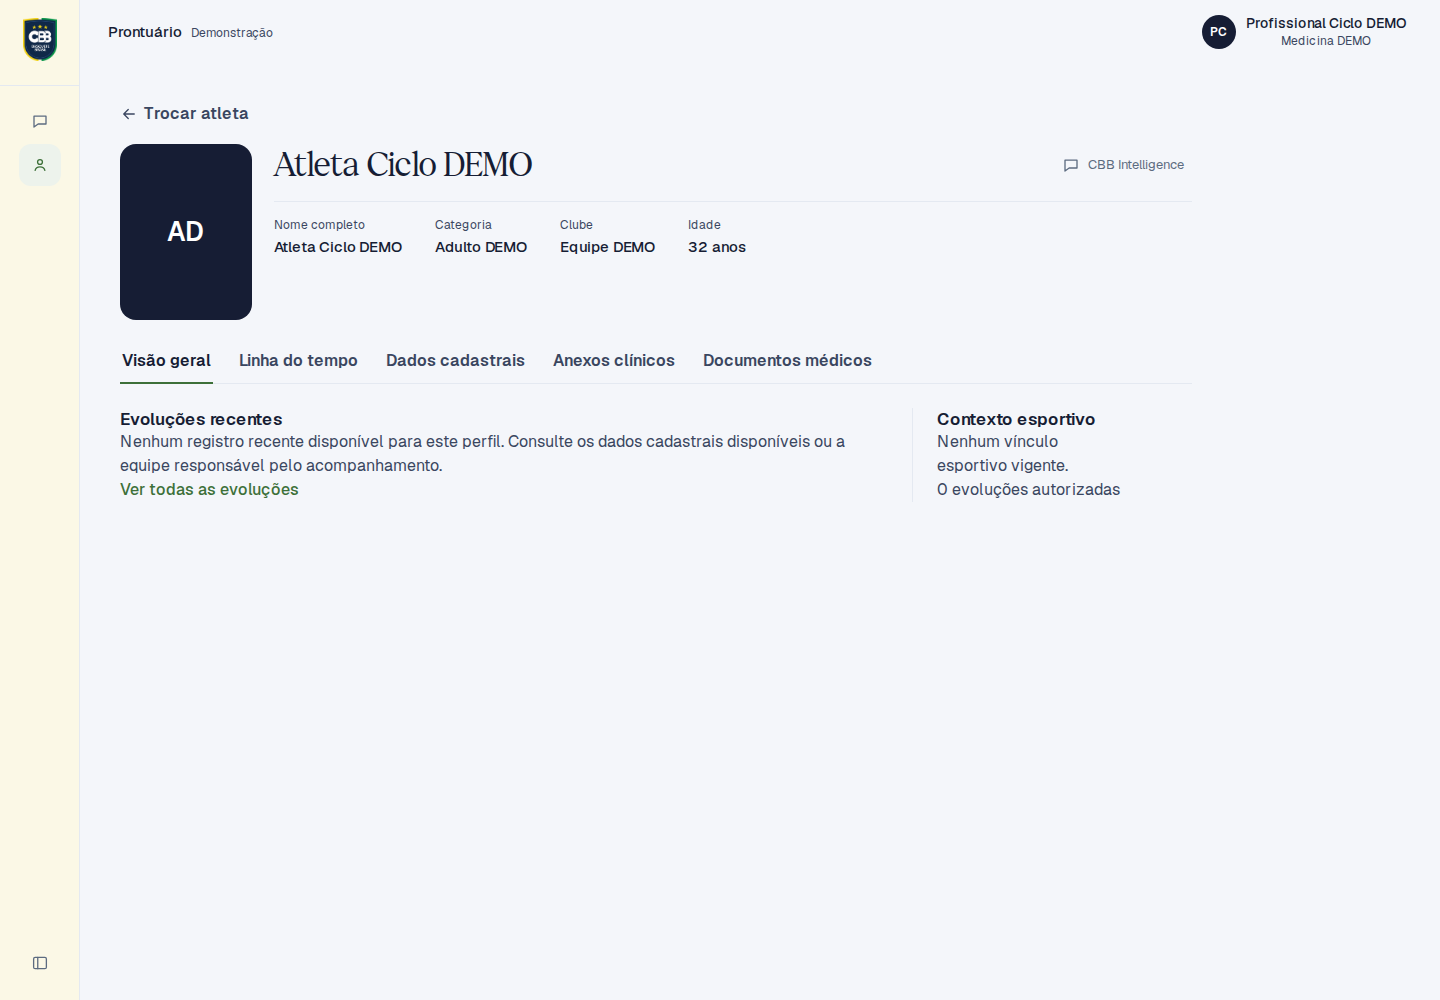
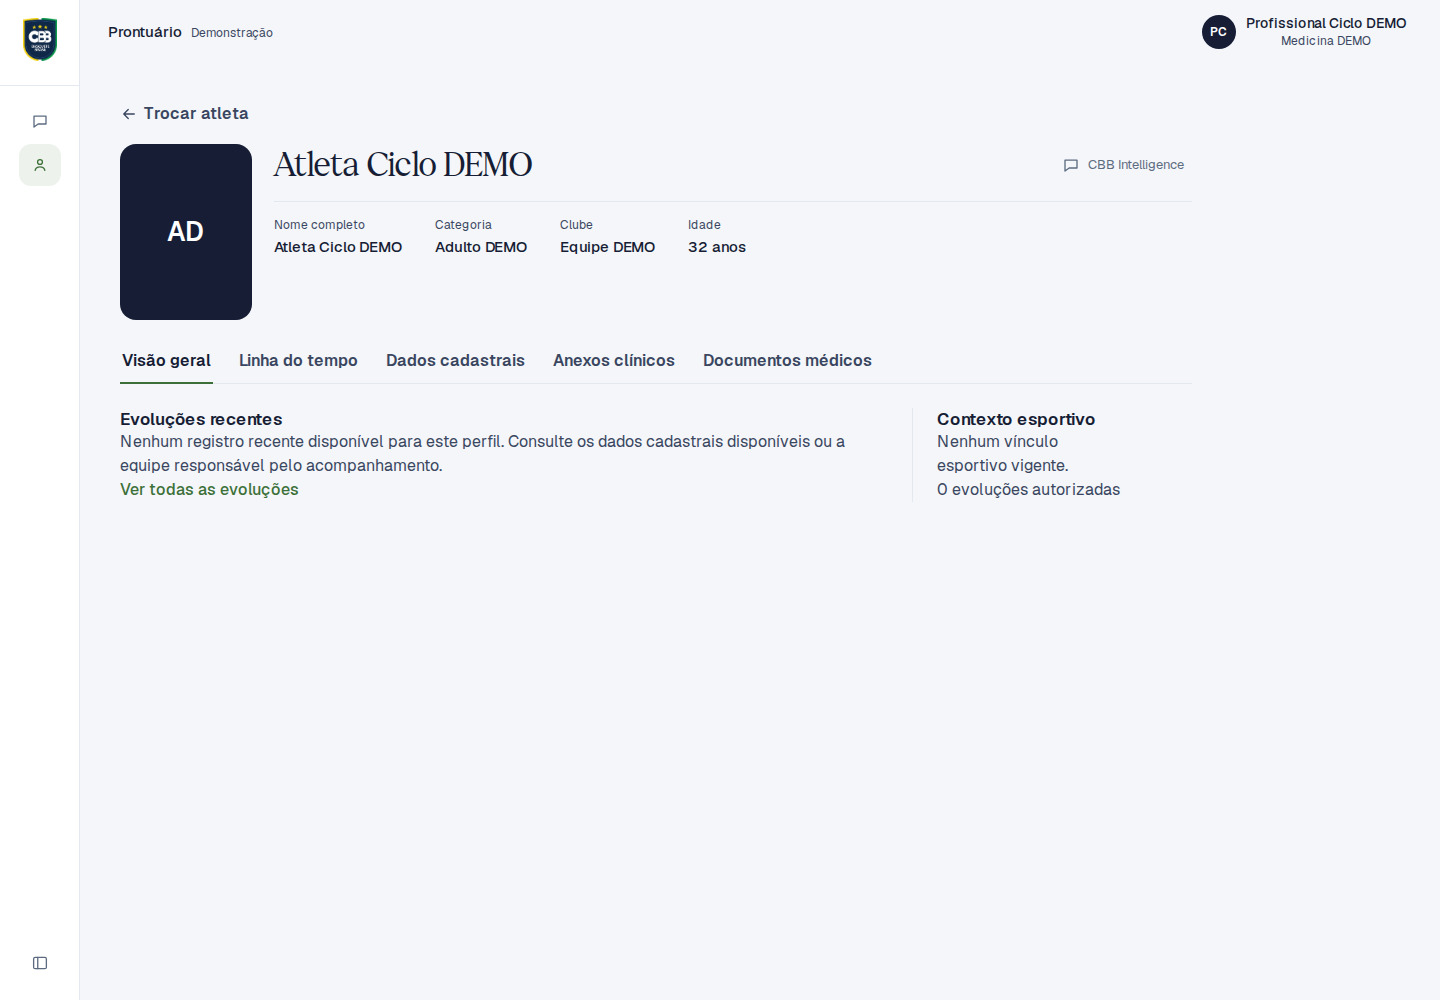
Revert "style: add subtle institutional yellow to navigation sidebar"
This reverts commit a21554922269d9b6a796809c7cc5ad3bf16a9146.

Changed region(s): [[0.0, 0.0, 0.0625, 1.0]]

diff --git a/src/app/globals.css b/src/app/globals.css
@@ -5,7 +5,6 @@
   --cbb-navy: #161d34;
   --cbb-green: #3d7039;
   --cbb-yellow: #e0c42d;
-  --sidebar-surface: #fbf8e6;
   --navy-hover: #1a375f;
   --navy-active: #224270;
   --navy-line: rgb(255 255 255 / .12);
@@ -134,7 +133,7 @@ textarea::placeholder, input::placeholder { color: var(--muted); opacity: 1; }
 .workspace-shell h1 { font-family: var(--font-geist), sans-serif; font-weight: 600; font-size: 1.75rem; letter-spacing: -.02em; line-height: 1.15; color: var(--cbb-navy); }
 .workspace-shell h1.athlete-name { font-family: var(--font-geist-serif-regular), "Times New Roman", serif; font-weight: 400; font-synthesis: none; font-size: 2rem; letter-spacing: -.03em; line-height: 1.08; white-space: nowrap; text-wrap: nowrap; }
 .workspace-shell ::selection { background: var(--brand-soft); color: var(--cbb-navy); }
-.workspace-sidebar { position: sticky; top: 0; z-index: 2; height: 100svh; display: flex; flex-direction: column; align-items: center; gap: .35rem; width: 80px; padding: 1.15rem 0 1rem; background: var(--sidebar-surface); border-right: 1px solid #e4e9f1; scrollbar-color: #c5d0de transparent; }
+.workspace-sidebar { position: sticky; top: 0; z-index: 2; height: 100svh; display: flex; flex-direction: column; align-items: center; gap: .35rem; width: 80px; padding: 1.15rem 0 1rem; background: #fff; border-right: 1px solid #e4e9f1; scrollbar-color: #c5d0de transparent; }
 .workspace-shell.is-wide .workspace-sidebar { align-items: stretch; width: 232px; padding-inline: .75rem; }
 .sidebar-brand { display: grid; place-items: center; width: 42px; height: 42px; margin-bottom: .35rem; border-radius: 12px; }
 .sidebar-brand .brand-mark { width: 34px; height: auto; }

diff --git a/src/features/chat/intelligence.css b/src/features/chat/intelligence.css
@@ -38,7 +38,7 @@
   width: 80px;
   height: 100svh;
   padding: 1.15rem 0 1rem;
-  background: var(--sidebar-surface);
+  background: #fff;
   border-right: 1px solid var(--ia-line);
 }
 .ia-brand {

diff --git a/docs/HANDOFF-007-10-6C-REPORT.md b/docs/HANDOFF-007-10-6C-REPORT.md
@@ -16,7 +16,7 @@ Somente três arquivos de produção alterados, todos CSS:
 - `src/features/chat/intelligence.css`: marca consistente, ações apropriadas em verde, hover/active, seleção e foco. Voz/informação continuam semânticas; a última palavra da saudação passou a usar o verde institucional por solicitação posterior do usuário, inclusive no estilo inline do texto animado e na versão de movimento reduzido.
 - `src/features/documents/documents.css`: cores anteriores fixadas exclusivamente na folha documental, por contexto, para impedir alteração silenciosa de sua apresentação.
 
-Sidebar continua clara, agora com amarelo muito suave `#FBF8E6` no token compartilhado `--sidebar-surface`, aplicado à barra de navegação esquerda do workspace e do Intelligence por solicitação posterior do usuário. Lista de conversas, conteúdo e estados clínicos preservados. Demais fundos existentes mantidos. Tipografia, escala, espaçamentos, larguras de borda, raios, grid, navegação e formulários preservados. Nenhum JSX, contrato, API, autorização, auditoria ou backend alterado. Ações destrutivas e secundárias mantêm sua hierarquia.
+Sidebar continua clara; fundos existentes mantidos. Tipografia, escala, espaçamentos, larguras de borda, raios, grid, navegação e formulários preservados. Nenhum JSX, contrato, API, autorização, auditoria ou backend alterado. Ações destrutivas e secundárias mantêm sua hierarquia.
 
 ## Tokens
 
